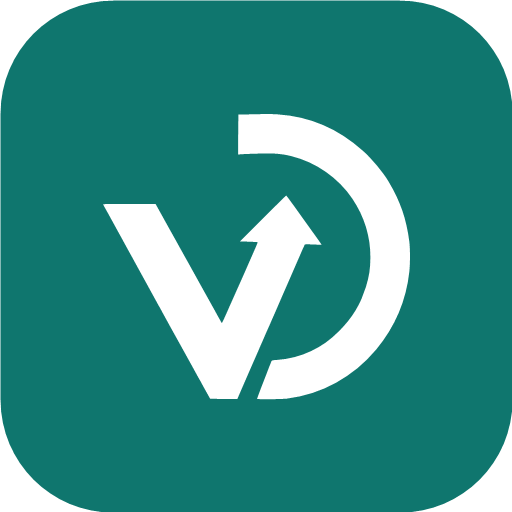
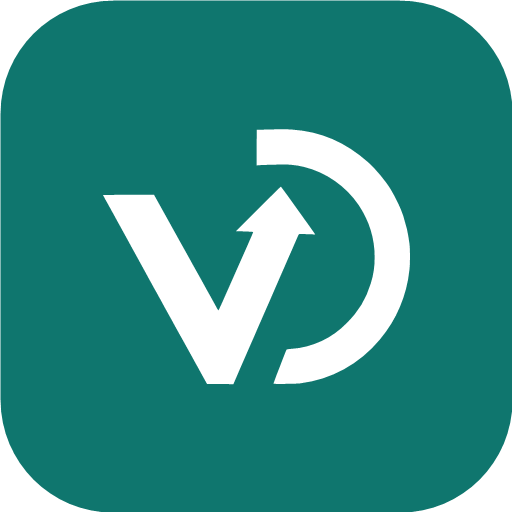
v1

diff --git a/src/components/ui/LogoMark.tsx b/src/components/ui/LogoMark.tsx
@@ -1,14 +1,19 @@
 /**
  * The VD Globals brand mark (V + upward arrow + D), as inline vector so it stays
- * razor-sharp at any size and inherits its colour from `currentColor`. Paths are
- * the production logo, fitted and centred in a 1024 viewBox.
+ * razor-sharp at any size and inherits its colour from `currentColor`. The D is
+ * shrunk and shifted right (bottom-aligned with the V) for breathing space,
+ * matching the favicon/app-icon build. Fitted and centred in a 1024 viewBox.
  */
 export function LogoMark({ className = '' }: { className?: string }) {
   return (
     <svg viewBox="0 0 1024 1024" className={className} fill="currentColor" aria-hidden="true">
-      <g transform="matrix(1.5198,0,0,1.5198,-266.89,-266.08)">
+      <g transform="matrix(1.475,0,0,1.475,-257.52,-275.14)">
+        <g transform="matrix(0.92,0,0,0.92,83.67,62.7)">
+          <g transform="translate(0,1024) scale(0.1,-0.1)">
+            <path d="M4975 7930 l-210 -5 -3 -394 -2 -394 87 7 c49 3 207 9 353 12 293 7 411 -3 610 -51 484 -118 931 -430 1207 -842 236 -353 356 -743 354 -1157 0 -220 -23 -370 -87 -582 -100 -333 -269 -611 -528 -870 -181 -181 -342 -296 -555 -397 -208 -98 -451 -162 -664 -174 -84 -5 -110 -10 -116 -22 -5 -9 -38 -92 -74 -186 -36 -93 -99 -258 -141 -364 -41 -107 -74 -197 -71 -199 10 -10 499 -4 590 7 685 85 1311 429 1759 967 376 451 593 963 657 1544 16 142 16 453 0 580 -57 449 -177 800 -409 1190 -114 192 -329 451 -505 608 -497 444 -1050 681 -1683 722 -151 10 -195 10 -569 0z" />
+          </g>
+        </g>
         <g transform="translate(0,1024) scale(0.1,-0.1)">
-          <path d="M4975 7930 l-210 -5 -3 -394 -2 -394 87 7 c49 3 207 9 353 12 293 7 411 -3 610 -51 484 -118 931 -430 1207 -842 236 -353 356 -743 354 -1157 0 -220 -23 -370 -87 -582 -100 -333 -269 -611 -528 -870 -181 -181 -342 -296 -555 -397 -208 -98 -451 -162 -664 -174 -84 -5 -110 -10 -116 -22 -5 -9 -38 -92 -74 -186 -36 -93 -99 -258 -141 -364 -41 -107 -74 -197 -71 -199 10 -10 499 -4 590 7 685 85 1311 429 1759 967 376 451 593 963 657 1544 16 142 16 453 0 580 -57 449 -177 800 -409 1190 -114 192 -329 451 -505 608 -497 444 -1050 681 -1683 722 -151 10 -195 10 -569 0z" />
           <path d="M5252 5877 l-454 -454 173 -7 c95 -3 174 -8 176 -10 4 -3 -90 -218 -324 -746 -77 -173 -194 -435 -259 -582 -65 -148 -121 -268 -124 -268 -3 0 -34 53 -69 118 -35 64 -92 167 -126 227 -34 61 -126 227 -205 370 -79 143 -185 334 -236 425 -51 91 -223 401 -383 689 l-290 523 -518 -1 c-285 -1 -518 -3 -519 -4 -1 -1 20 -42 48 -92 91 -162 91 -163 748 -1360 138 -253 276 -503 305 -555 29 -52 128 -232 220 -400 93 -168 213 -386 268 -485 55 -99 132 -238 172 -310 39 -71 99 -179 132 -240 34 -60 97 -175 141 -255 l81 -145 268 -2 268 -3 87 203 c80 184 176 406 280 642 22 50 66 151 98 225 32 74 95 218 140 320 45 102 117 266 160 365 122 282 240 552 340 780 50 116 121 278 157 360 35 83 67 153 71 156 4 4 79 4 167 0 88 -4 161 -7 163 -5 2 1 -50 75 -114 165 -65 90 -221 308 -347 484 -126 176 -232 321 -236 323 -3 1 -210 -202 -459 -451z" />
         </g>
       </g>
